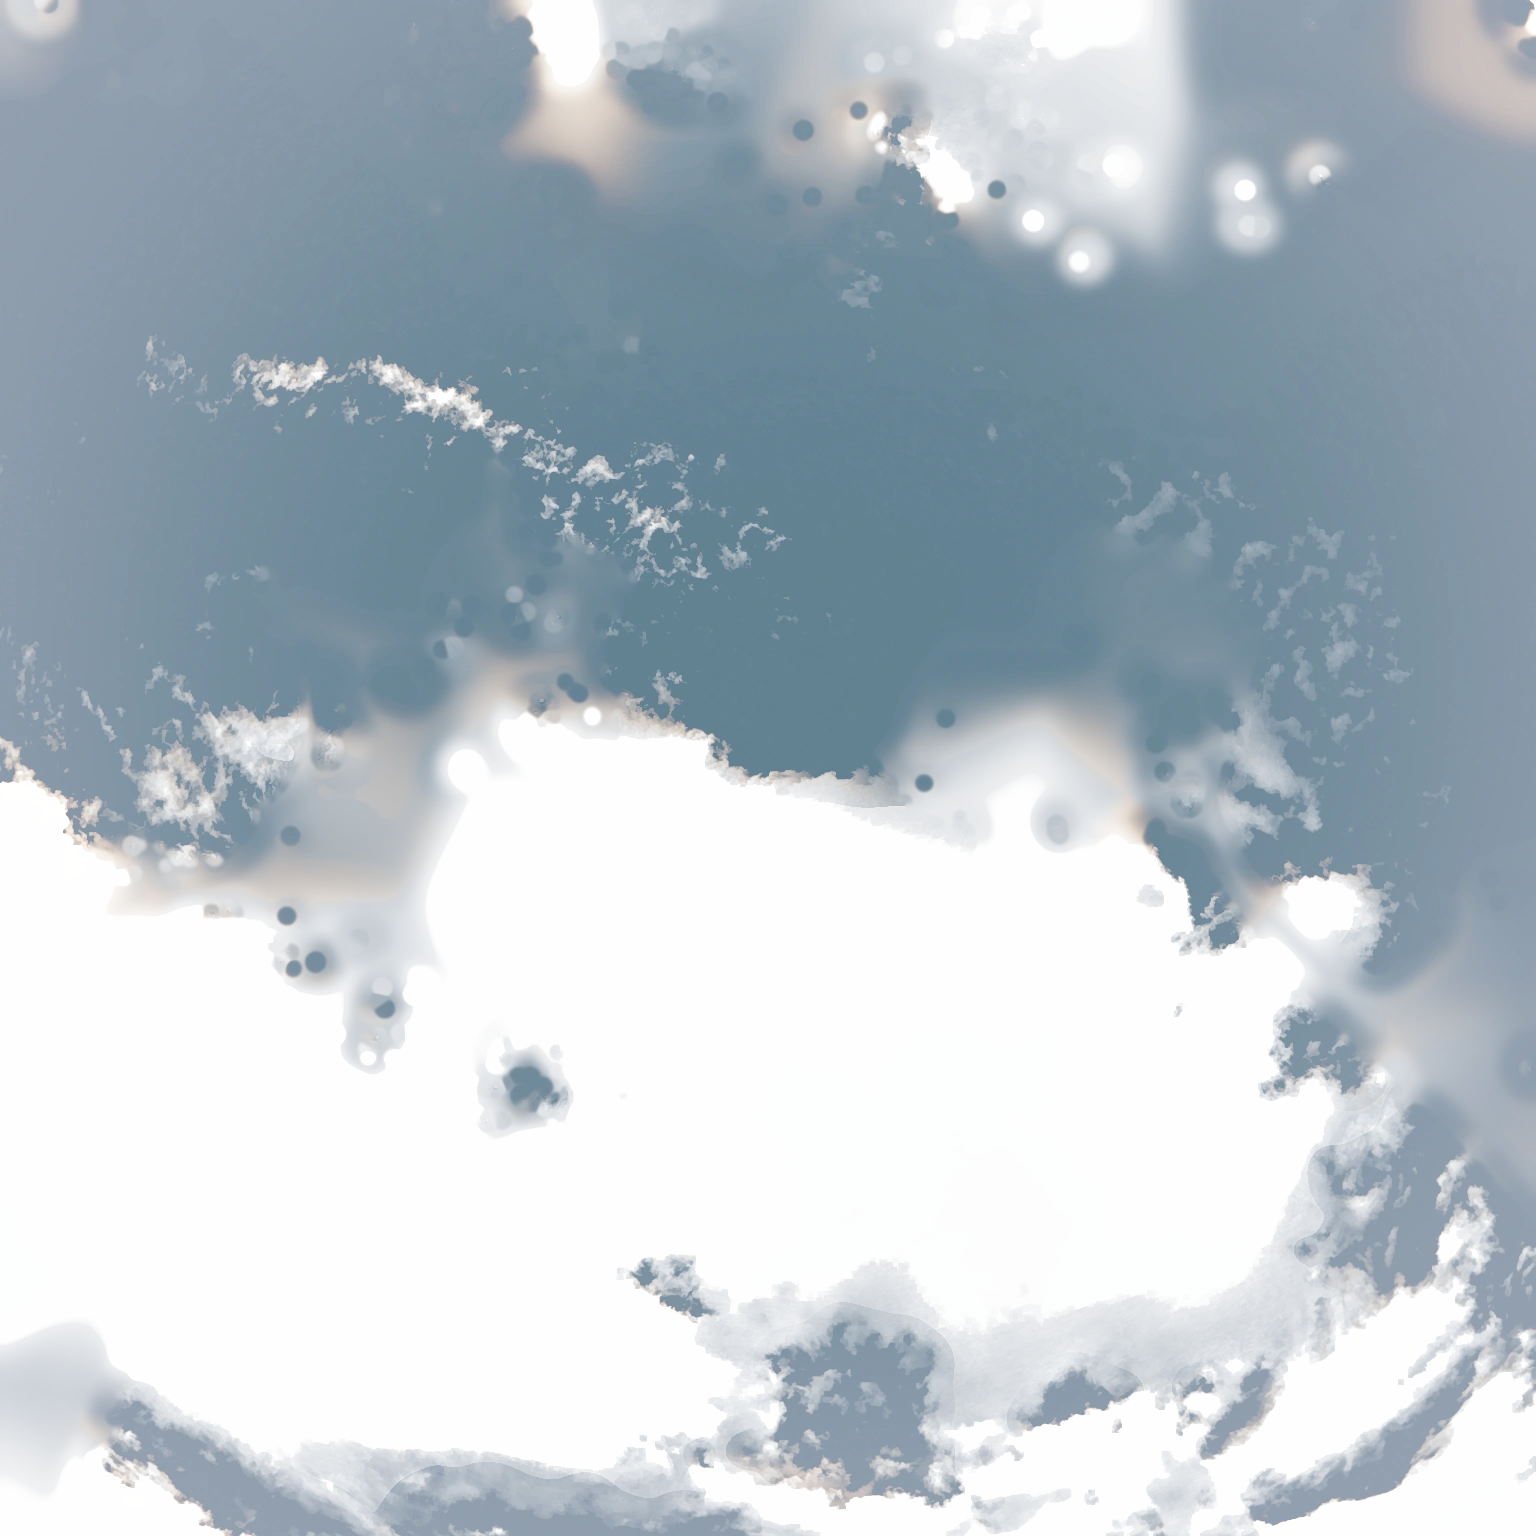
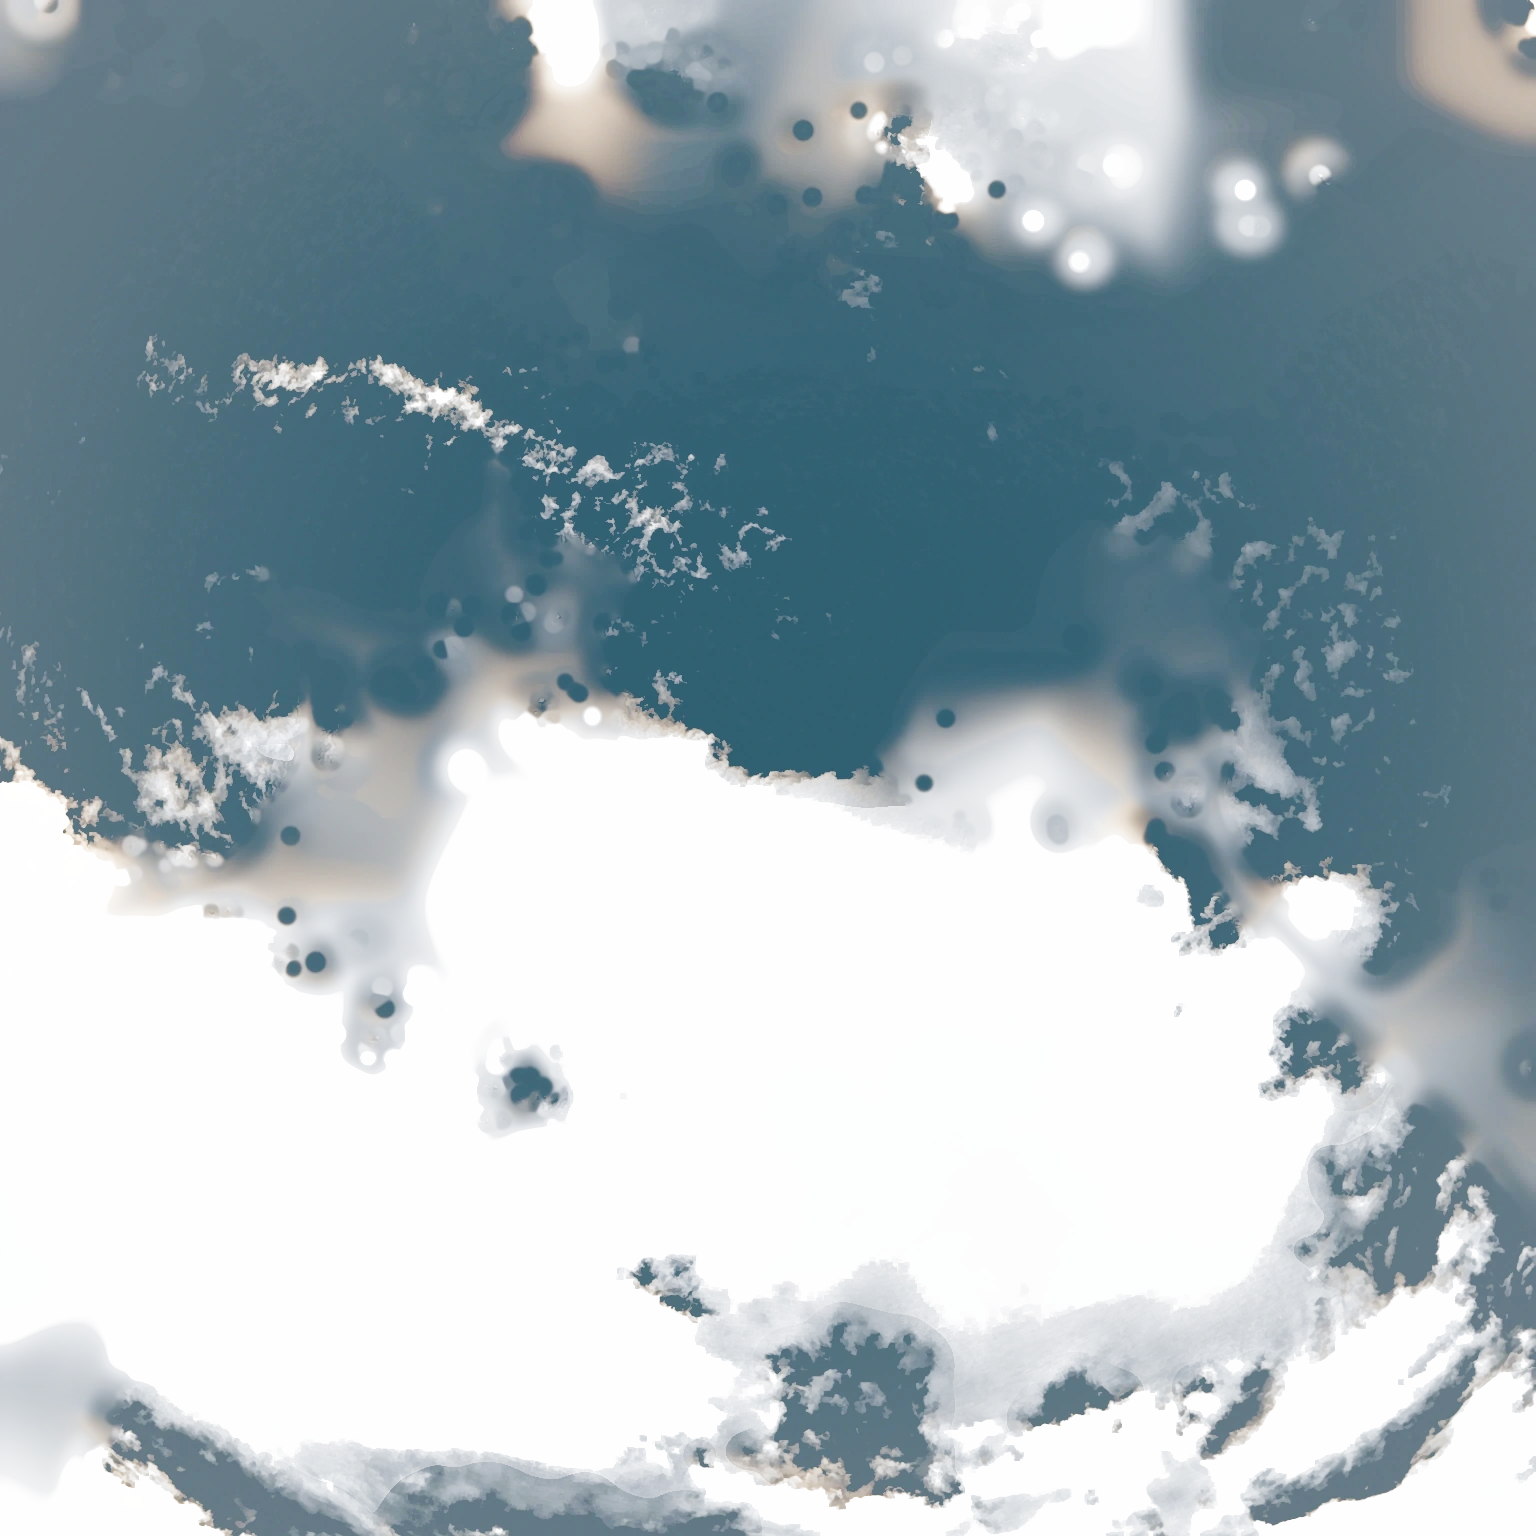
Lab: climb overexpose round 3
Claude-Session: https://claude.ai/code/session_01RqENhngNCzDFmJWDZueXGV

diff --git a/tools/depth/bakes/overexpose/polarise.py b/tools/depth/bakes/overexpose/polarise.py
@@ -68,6 +68,19 @@
 # Pipeline: runs last, after sunburst.py (pass copies, never the outputs):
 #             python3 polarise.py <scene.webp> <optics.png> [preview_dir]
 # With preview_dir it writes scene.png / optics.png there and leaves public/ alone.
+#
+# Relay (once, on the shipped swap.py bake, which laid SHIP_ZEN / SHIP_RIM as its open sky):
+#             python3 polarise.py --relay <scene.webp> <trees.webp> <optics.png> [preview_dir]
+# The dome swap.py laid (SHIP_ZEN / SHIP_RIM) printed a pale cerulean at the +1.33 hero,
+# a median rgb(131,181,222), with too little depth for the clouds and crowns to read
+# against. relay() reads each pixel's cloud depth back from alpha (cumulus.py's key,
+# with reaim.sun()'s glow key under it, divided out) and swaps that old dome for the
+# current, deeper one (ZEN / RIM) in the sky share (1 - depth) only, the grain riding
+# along as the pixel's own ratio to the old field; the cloud's own light is untouched,
+# so the whites, the skylight-blue shadows and the 0% clipping hold. The optics take
+# the change's own blur, seen through (1 - the pines' matte). Re-encoded with TPDF
+# dither, so the deeper gradient stays continuous. swap.py, run again, lays the new
+# dome directly.
 import sys, os; sys.path.insert(0, os.path.dirname(os.path.abspath(__file__)))
 import numpy as np
 from PIL import Image
@@ -78,10 +91,24 @@ import relight
 
 LUMA = np.array([0.2126, 0.7152, 0.0722])
 LN = 0.035                                   # the needles' own luminance (resun.py)
-ZEN = np.array([0.0515, 0.1311, 0.2166])     # overhead: prints ~rgb(32,104,184) at 0 EV
-RIM = np.array([0.1716, 0.2793, 0.4513])     # at Z_RIM: prints ~rgb(106,167,228)
+# The dome, as a strong polariser takes it: the sky's own light pulled down about 2.3
+# stops from the field below and its chroma raised, so the cumulus and the crowns have a
+# deep field to read against. Solved through the piece's negative + print (and checked
+# with the Pro-Mist veil on): at the +1.33 hero the zenith prints about rgb(21,86,162),
+# the median open sky about rgb(35,113,188) and the low sky by the mid-edges about
+# rgb(80,140,190), hue 207-212 all the way out; at 0 EV the zenith is a dense navy-cobalt
+# rgb(20,55,90); at +3 it thins to a clear rgb(64,162,210) (hue ~200), never lavender.
+# The red record's floor (its cross-talk from green) keeps the deepest red near 20.
+ZEN = np.array([0.0116, 0.0480, 0.0830])     # overhead: prints ~rgb(21,86,162) at +1.33 EV
+RIM = np.array([0.0433, 0.0935, 0.1402])     # at Z_RIM: prints ~rgb(61,137,206) at +1.33 EV
 Z_RIM, ZPOW = 60.0, 2.8                      # zenith angle of the mid-edge rim (deg); dome power (half-way ~45 deg)
 Z_CAP, CAP_M = 1.1, 4.0                      # soft cap past the rim (share of the rim's opening), its knee
+# the field swap.py laid on the shipped bake before relay() deepened it (printed
+# rgb(32,104,184) overhead at 0 EV, a pale cerulean rgb(131,181,222) median at +1.33);
+# relay() takes exactly this field back out of each pixel's sky share
+SHIP_ZEN = np.array([0.0515, 0.1311, 0.2166])
+SHIP_RIM = np.array([0.1716, 0.2793, 0.4513])
+SHIP_ZPOW = 2.8
 AUR_A, AUR_W = 17.0, 3.0                     # aureole: x the target sky at the sun, e-fold (deg)
 AUR_B, AUR_W2 = 0.8, 6.0                     # its soft outer edge, in the sky's own blue (so no grey skirt)
 AUR_WHITE, AUR_WK = 0.75, 2.0                 # its colour: up to this far towards white, half-way at AUR_WK x the sky
@@ -109,6 +136,7 @@ DIM_STOPS = (0.35, 1.1)                      # below the local brightest light (
 THICK_PX, HI_PX = 14.0, 41                   # thickness blur; window of the brightest light around (px)
 TOP_W, TOP_CHROMA, TOP_LIFT = 1.0, 1.3, 0.3  # tops: weight, chroma push (past the target, as the print bleaches it), lift (stops)
 CORE_W, CORE_CHROMA, CORE_SINK = 1.0, 1.4, 0.45 # cores: weight, chroma push, sink (stops)
+RELAY_GRAIN_D = 0.1                           # relay(): cloud depth by which the grain ratio has eased to 1
 SUN_SPARE = 9.0                              # deg around the hidden sun the grade leaves alone
 
 def smooth(a, lo, hi):
@@ -118,11 +146,14 @@ def smooth(a, lo, hi):
 def mblur(a, m, s):
     return ndi.gaussian_filter(a * m, s) / np.maximum(ndi.gaussian_filter(m, s), 1e-6)
 
-def sky_field(z):
+def sky_field(z, zen=None, rim=None, zpow=None):
     """The open sky with no sun: a function of zenith angle alone, a broad dome."""
+    zen = ZEN if zen is None else zen
+    rim = RIM if rim is None else rim
+    zpow = ZPOW if zpow is None else zpow
     cap = lambda v: v / (1 + (v / Z_CAP) ** CAP_M) ** (1 / CAP_M)
-    k = (cap((np.asarray(z) / Z_RIM) ** ZPOW) / cap(1.0))[..., None]
-    return np.exp(np.log(ZEN) + (np.log(RIM) - np.log(ZEN)) * k)
+    k = (cap((np.asarray(z) / Z_RIM) ** zpow) / cap(1.0))[..., None]
+    return np.exp(np.log(zen) + (np.log(rim) - np.log(zen)) * k)
 
 def aureole(T, g):
     """The hidden sun's aureole over the sky field T: its excess light, cyan-white
@@ -328,6 +359,70 @@ def polarise(pix):
     print('cloud depth > 0.5: %.3f of the frame; tops %.3f, cores %.3f (mean weight on cloud)' % (
         float((cd > 0.5).mean()), float(top[cd > 0.5].mean()), float(core[cd > 0.5].mean())))
     return out
+
+def relay(pix, a8, ta, zen=None, rim=None, zpow=None):
+    """The shipped bake's dome swapped for the current one, in the sky share only.
+    swap.py composed each open pixel as (1 - d) x dome x grain + d x cloud light and
+    keyed d into alpha (with the hidden sun's glow key under it, reaim.sun()), so d is
+    read back exactly from alpha and the trees' matte; the old dome comes out and the
+    new one goes in on that share, the grain riding along as the pixel's own ratio to
+    the old field wherever the pixel is open sky. Cloud light is untouched."""
+    import crown
+    import sunburst
+    import swap
+    deepen.U, deepen.V = swap.sun_uv()
+    elev, g = deepen.geometry()
+    z = 90.0 - elev
+    share = 1 - np.clip((a8.astype(np.float64) - 3) / 252, 0, 1)
+    ksky = np.clip(ndi.gaussian_filter(1 - ta, 1.5), 0, 1)
+    key = sunburst.KEY_A * np.exp(-g / sunburst.KEY_DEG) * (sunburst.KEY_NEEDLE + (1 - sunburst.KEY_NEEDLE) * ksky)
+    d = np.clip((share - key) / np.maximum(1 - key, 1e-3), 0, 1)
+    T0 = sky_field(z, SHIP_ZEN, SHIP_RIM, SHIP_ZPOW)
+    T1 = sky_field(z, zen, rim, zpow)
+    N0, N1 = T0 + crown.aureole(T0, g), T1 + crown.aureole(T1, g)
+    # the grain: the pixel's own ratio to the old field on open sky, 1 (the local mean) in a cloud's edge
+    gr = np.clip(pix / N0, 0.5, 2.0)
+    gr = 1 + (gr - 1) * (1 - smooth(d, 0.0, RELAY_GRAIN_D))[..., None]
+    out = pix + ((1 - d)[..., None]) * gr * (N1 - N0)
+    out = np.maximum(out, np.maximum(d[..., None] * 0.5 * pix, 2.0 ** bw.LO))
+    return out, d, z, g
+
+def relay_main(argv):
+    """python3 polarise.py --relay <scene.webp> <trees.webp> <optics.png> [preview_dir]"""
+    s = np.asarray(Image.open(argv[0]).convert('RGBA'))
+    s8, a8 = s[..., :3], s[..., 3]
+    ta = np.asarray(Image.open(argv[1]).convert('RGBA'))[..., 3] / 255.0
+    g8 = np.asarray(Image.open(argv[2]).convert('RGB'))
+    pix = bw.dec_log(s8)
+    out, d, z, _ = relay(pix, a8, ta)
+    rng = np.random.default_rng(71)
+    changed = np.abs(np.log2(out / pix)).max(-1) > 1e-3
+    s8n = np.where(changed[..., None], bw.enc_log(out, rng), s8).astype(np.uint8)
+    # the optics were baked from the visible scene (the pines' ink laid over the plate):
+    # the change is seen only through (1 - the trees' matte)
+    d_opt = bw.optics((1 - ta)[..., None] * (out - pix))
+    glow = np.maximum(bw.dec_log(g8) + d_opt, 2.0 ** bw.LO)
+    g8n = np.where((np.abs(d_opt) > 1e-5).any(-1, keepdims=True), bw.enc_log(glow, rng), g8).astype(np.uint8)
+    sky = (d < 0.01) & (ta < 0.01)
+    for zz in (5, 20, 35, 50, 65):
+        m = sky & (np.abs(z - zz) < 2)
+        if m.sum():
+            print(f'open sky z {zz:2d}: {np.round(np.median(pix[m], 0), 4)} -> {np.round(np.median(out[m], 0), 4)}')
+    print(f'changed px {float(changed.mean()):.3f}')
+    if len(argv) > 3:
+        Image.fromarray(np.dstack([s8n, a8]), 'RGBA').save(os.path.join(argv[3], 'scene.webp'), 'WEBP',
+                                                           quality=95, alpha_quality=100, method=6, exact=True, use_sharp_yuv=True)
+        Image.fromarray(g8n, 'RGB').save(os.path.join(argv[3], 'optics.png'), optimize=True)
+        print('preview written to', argv[3])
+        return
+    Image.fromarray(np.dstack([s8n, a8]), 'RGBA').save(os.path.join(bw.OUT, 'scene.webp'), 'WEBP',
+                                                       quality=95, alpha_quality=100, method=6, exact=True, use_sharp_yuv=True)
+    bw.save_optics(g8n)
+    print('wrote', bw.OUT)
+
+if __name__ == '__main__' and len(sys.argv) > 1 and sys.argv[1] == '--relay':
+    relay_main(sys.argv[2:])
+    sys.exit(0)
 
 if __name__ == '__main__':
     s = np.asarray(Image.open(sys.argv[1]).convert('RGBA'))
